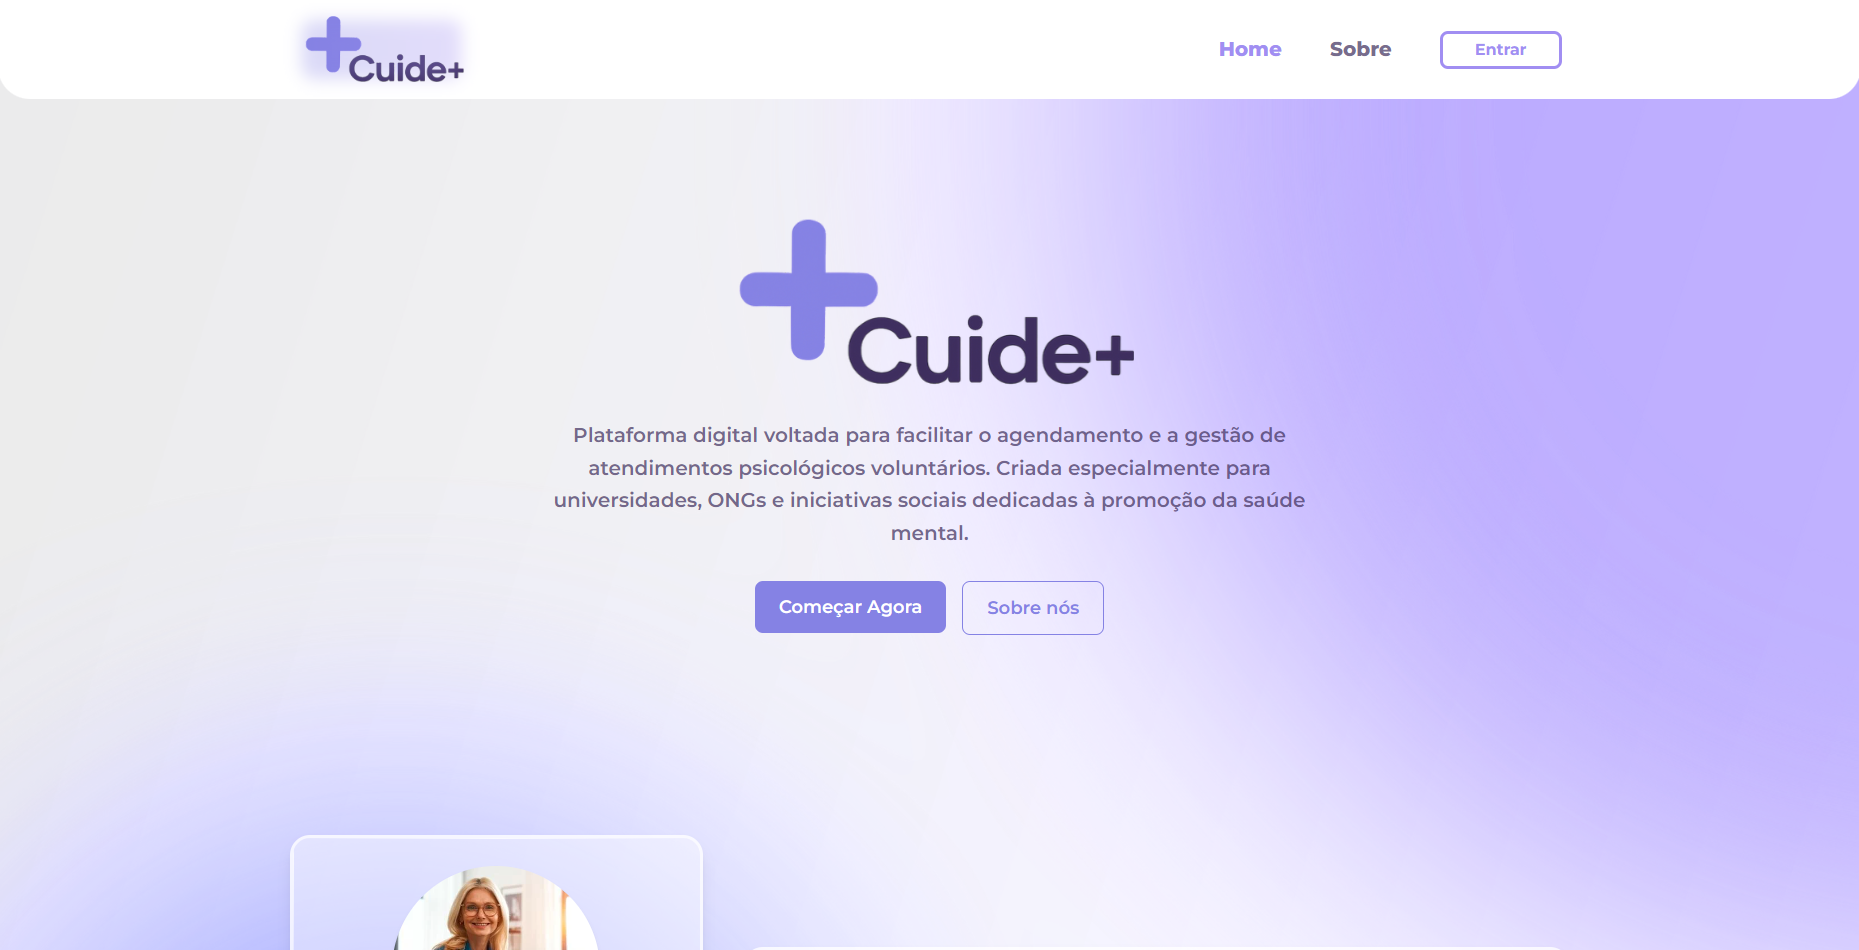
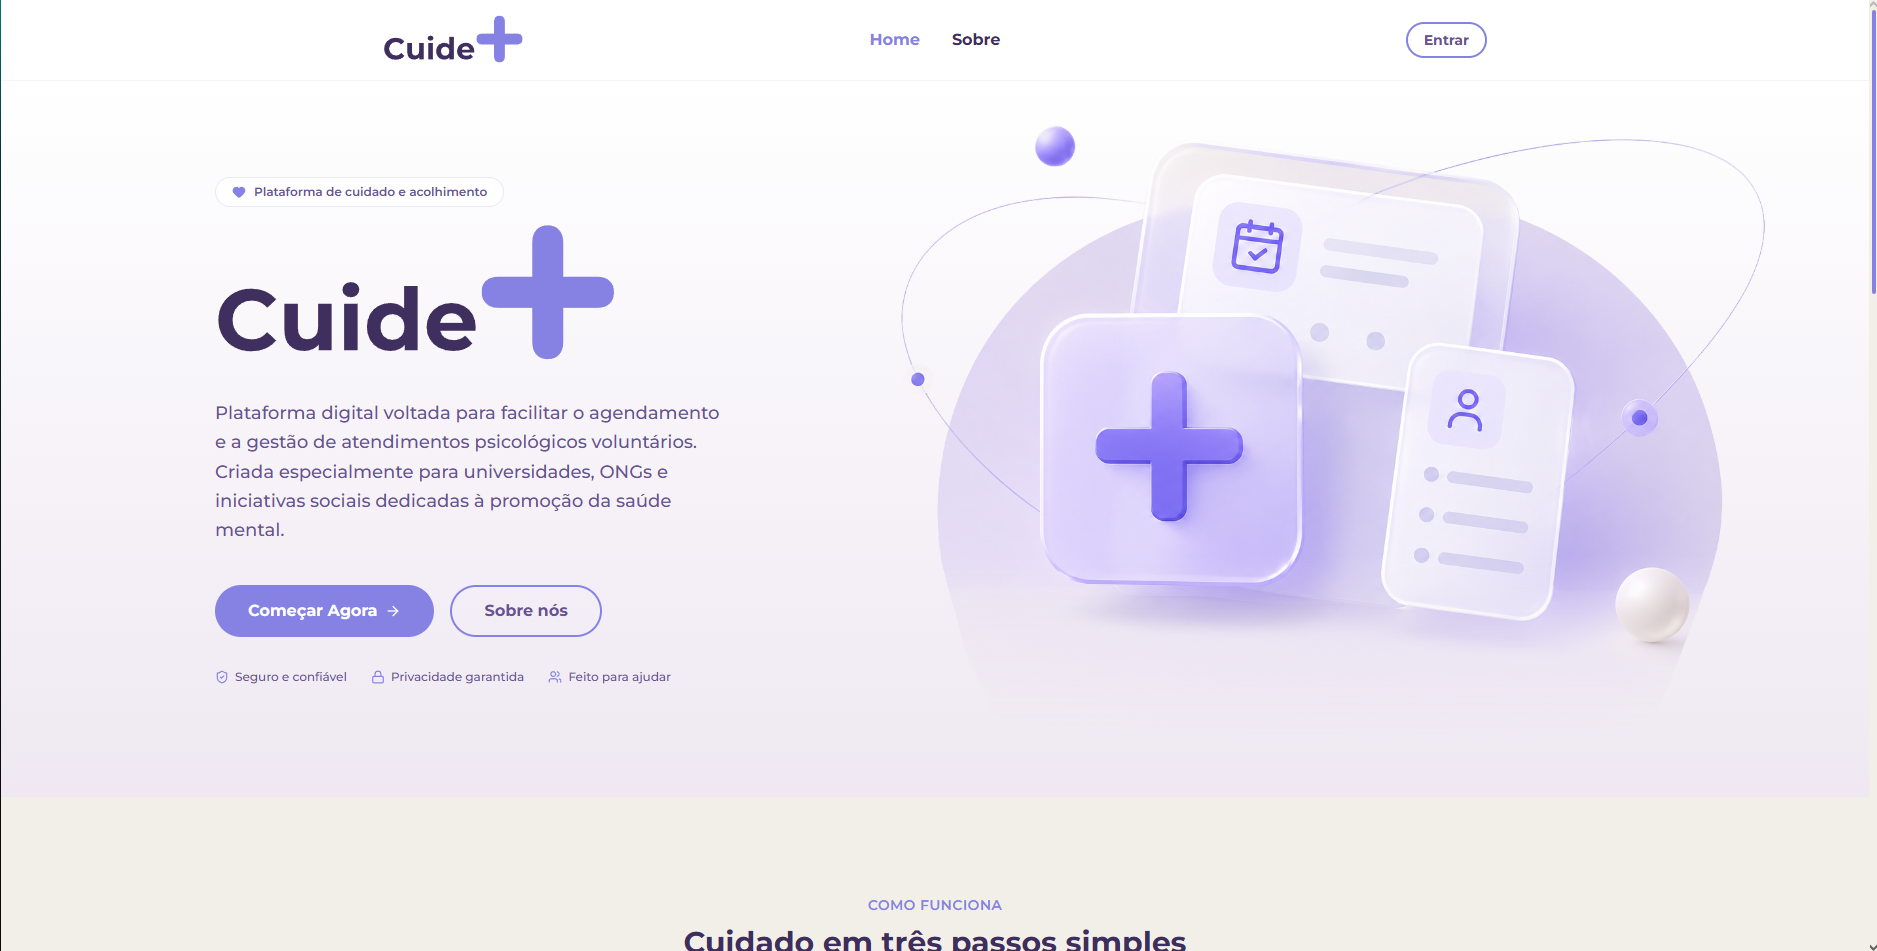
projeto Cuide+ atualizado

diff --git a/src/i18n/LanguageContext.jsx b/src/i18n/LanguageContext.jsx
@@ -70,9 +70,9 @@ const translations = {
       title: 'Projetos em Destaque',
       verProjeto: 'Ver Projeto →',
       lista: [
-        { nome: 'Portal Turismo da Miku (2024)', desc: 'Agência de turismo fictícia inspirada na personagem e cantora Hatsune Miku (初音ミク).', cat: 'Web App' },
-        { nome: 'Cuide+ (2025)', desc: 'Site fictício de gerenciamento de psicólogos e pacientes.', cat: 'Web App' },
+        { nome: 'Cuide+ | Segunda Versão (2026)', desc: 'Site fictício de gerenciamento de psicólogos e pacientes.', cat: 'Web App' },
         { nome: 'Jellycubes Games (2026)', desc: 'Site de jogos Browser fictício, feito com o estilo Maximalista.', cat: 'Web App' },
+        { nome: 'Portal Turismo da Miku (2024)', desc: 'Agência de turismo fictícia inspirada na personagem e cantora Hatsune Miku (初音ミク).', cat: 'Web App' },
       ],
     },
     skills: {
@@ -159,9 +159,9 @@ const translations = {
       title: 'Featured Projects',
       verProjeto: 'View Project →',
       lista: [
-        { nome: 'Miku Tourism Portal (2024)', desc: 'Fictional travel agency inspired by the character and singer Hatsune Miku (初音ミク).', cat: 'Web App' },
-        { nome: 'Cuide+ (2025)', desc: 'Fictional management site for psychologists and patients.', cat: 'Web App' },
+        { nome: 'Cuide+ | Second Version (2026)', desc: 'Fictional management site for psychologists and patients.', cat: 'Web App' },
         { nome: 'Jellycubes Games (2026)', desc: 'Fictional browser game site, made with the Maximalist style.', cat: 'Web App' },
+        { nome: 'Miku Tourism Portal (2024)', desc: 'Fictional travel agency inspired by the character and singer Hatsune Miku (初音ミク).', cat: 'Web App' },
       ],
     },
     skills: {

diff --git a/src/App.jsx b/src/App.jsx
@@ -325,9 +325,11 @@ function TrajetoriaSection() {
 // Ícone, imagem e stack de cada projeto — nome/desc/cat vêm de t.projetos.lista
 // (i18n), casados por índice.
 const projetosMeta = [
+    { ic: '/assets/cuidemais_logo.svg', img: '/assets/cuidemais_print.png', variant: 'sky', tech: ['React', 'Node.js', 'Tailwind', 'JavaScript'] },
+    { ic: '/assets/jellycubes_logo.svg', img: '/assets/jellycubes_print.png', variant: 'forest', tech: ['React', 'Node.js', 'Tailwind', 'TypeScript'] },
   { ic: '/assets/portalturismo_logo.png', img: '/assets/portalturismo_print.png', variant: 'aqua', tech: ['React', 'Node.js', 'Tailwind', 'JavaScript'] },
-  { ic: '/assets/cuidemais_logo.svg', img: '/assets/cuidemais_print.png', variant: 'sky', tech: ['React', 'Node.js', 'Tailwind', 'JavaScript'] },
-  { ic: '/assets/jellycubes_logo.svg', img: '/assets/jellycubes_print.png', variant: 'forest', tech: ['React', 'Node.js', 'Tailwind', 'TypeScript'] },
+
+
 ]
 
 // ── Seção Projetos ───────────────────────────────────────────
